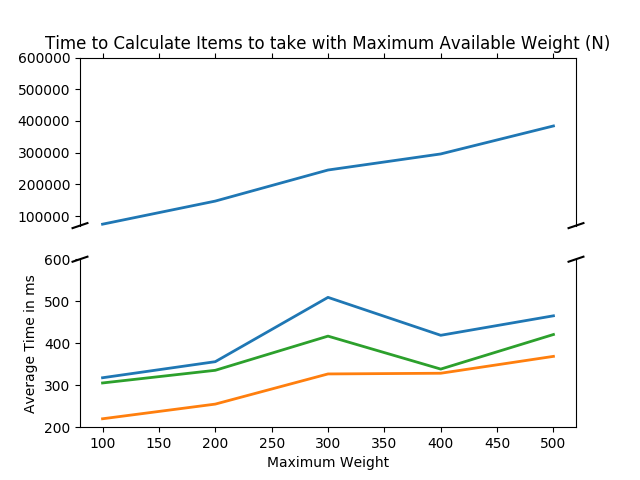
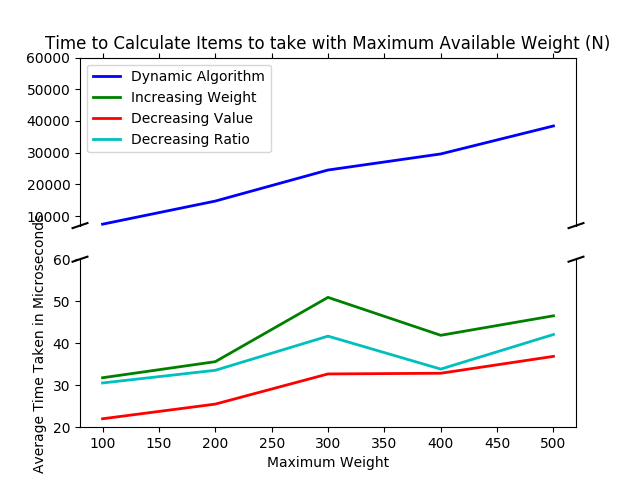
Fix Timing Graph Code

diff --git a/paper/python/generate_graph.py b/paper/python/generate_graph.py
@@ -3,10 +3,11 @@ import matplotlib.pyplot as plt
 # For both graphs
 max_weights = [100, 200, 300, 400, 500]
 # For the max weight vs time graph
-dynamic_timings = [n / 100 for n in [7446320, 14733273, 24533937, 29605866, 38435691]]
-increasing_weight_timings = [n / 100 for n in [31775, 35600, 50913, 41883, 46523]]
-decreasing_value_timings = [n / 100 for n in [22007, 25499, 32682, 32846, 36866]]
-decreasing_ratio_timings = [n / 100 for n in [30532, 33547, 41684, 33837, 42071]]
+#
+dynamic_timings = [n / 1000 for n in [7446320, 14733273, 24533937, 29605866, 38435691]]
+increasing_weight_timings = [n / 1000 for n in [31775, 35600, 50913, 41883, 46523]]
+decreasing_value_timings = [n / 1000 for n in [22007, 25499, 32682, 32846, 36866]]
+decreasing_ratio_timings = [n / 1000 for n in [30532, 33547, 41684, 33837, 42071]]
 
 # For the second graph of max weight vs accuracy 
 dynamic_accuracy = [100.0, 100.0, 100.0, 100.0, 100.0]
@@ -16,13 +17,18 @@ decreasing_ratio_accuracy = [99.8515, 99.8826, 99.9342, 99.9409, 99.9844]
 
 f, (ax, ax2) = plt.subplots(2, 1, sharex=True)
 
-line_dynamic_timings = ax.plot(max_weights, dynamic_timings, label="Dynamic Algorithm", linewidth=2)
-line_increasing_weight = ax2.plot(max_weights, increasing_weight_timings, label="Increasing Weight", linewidth=2)
-line_decreasing_value = ax2.plot(max_weights, decreasing_value_timings, label="Decreasing Value", linewidth=2)
-line_decreasing_ratio = ax2.plot(max_weights, decreasing_ratio_timings, label="Decreasing Ratio", linewidth=2)
+line_dynamic_timings = ax.plot(max_weights, dynamic_timings, 'b', label="Dynamic Algorithm", linewidth=2)
+line_increasing_weight = ax.plot(max_weights, increasing_weight_timings, 'g', label="Increasing Weight", linewidth=2)
+line_decreasing_value = ax.plot(max_weights, decreasing_value_timings, 'r', label="Decreasing Value", linewidth=2)
+line_decreasing_ratio = ax.plot(max_weights, decreasing_ratio_timings, 'c',label="Decreasing Ratio", linewidth=2)
 
 
-#plt.legend(handles=[line_dynamic_timings[0], line_increasing_weight[0], line_decreasing_value[0], line_decreasing_ratio[0]])
+# plot the same line again so i can use it in the key for ax2
+line_increasing_weight = ax2.plot(max_weights, increasing_weight_timings, 'g', label="Increasing Weight", linewidth=2)
+line_decreasing_value = ax2.plot(max_weights, decreasing_value_timings, 'r', label="Decreasing Value", linewidth=2)
+line_decreasing_ratio = ax2.plot(max_weights, decreasing_ratio_timings, 'c', label="Decreasing Ratio", linewidth=2)
+
+ax.legend(handles=[line_dynamic_timings[0], line_increasing_weight[0], line_decreasing_value[0], line_decreasing_ratio[0]])
 
 # Add dashes on side of graph
 d = .015  # how big to make the diagonal lines in axes coordinates
@@ -36,8 +42,8 @@ ax2.plot((-d, +d), (1 - d, 1 + d), **kwargs)  # bottom-left diagonal
 ax2.plot((1 - d, 1 + d), (1 - d, 1 + d), **kwargs)  # bottom-right diagonal
 
 
-ax.set_ylim(70000, 600000) # outliers
-ax2.set_ylim(200, 600) # most of the data
+ax.set_ylim(7000, 60000) # outliers
+ax2.set_ylim(20, 60) # most of the data
 # hide the axis between the two
 ax.spines['bottom'].set_visible(False)
 ax2.spines['top'].set_visible(False)
@@ -48,7 +54,7 @@ ax2.xaxis.tick_bottom()
 
 # axis(xmin, xmax, ymin, ymax)
 #plt.axis([100, 500, 0, 500000])
-plt.ylabel('Average Time in ms') 
+plt.ylabel('Average Time Taken in Microseconds') 
 plt.xlabel('Maximum Weight')
 ax.set_title('Time to Calculate Items to take with Maximum Available Weight (N)') 
 #plt.show()
